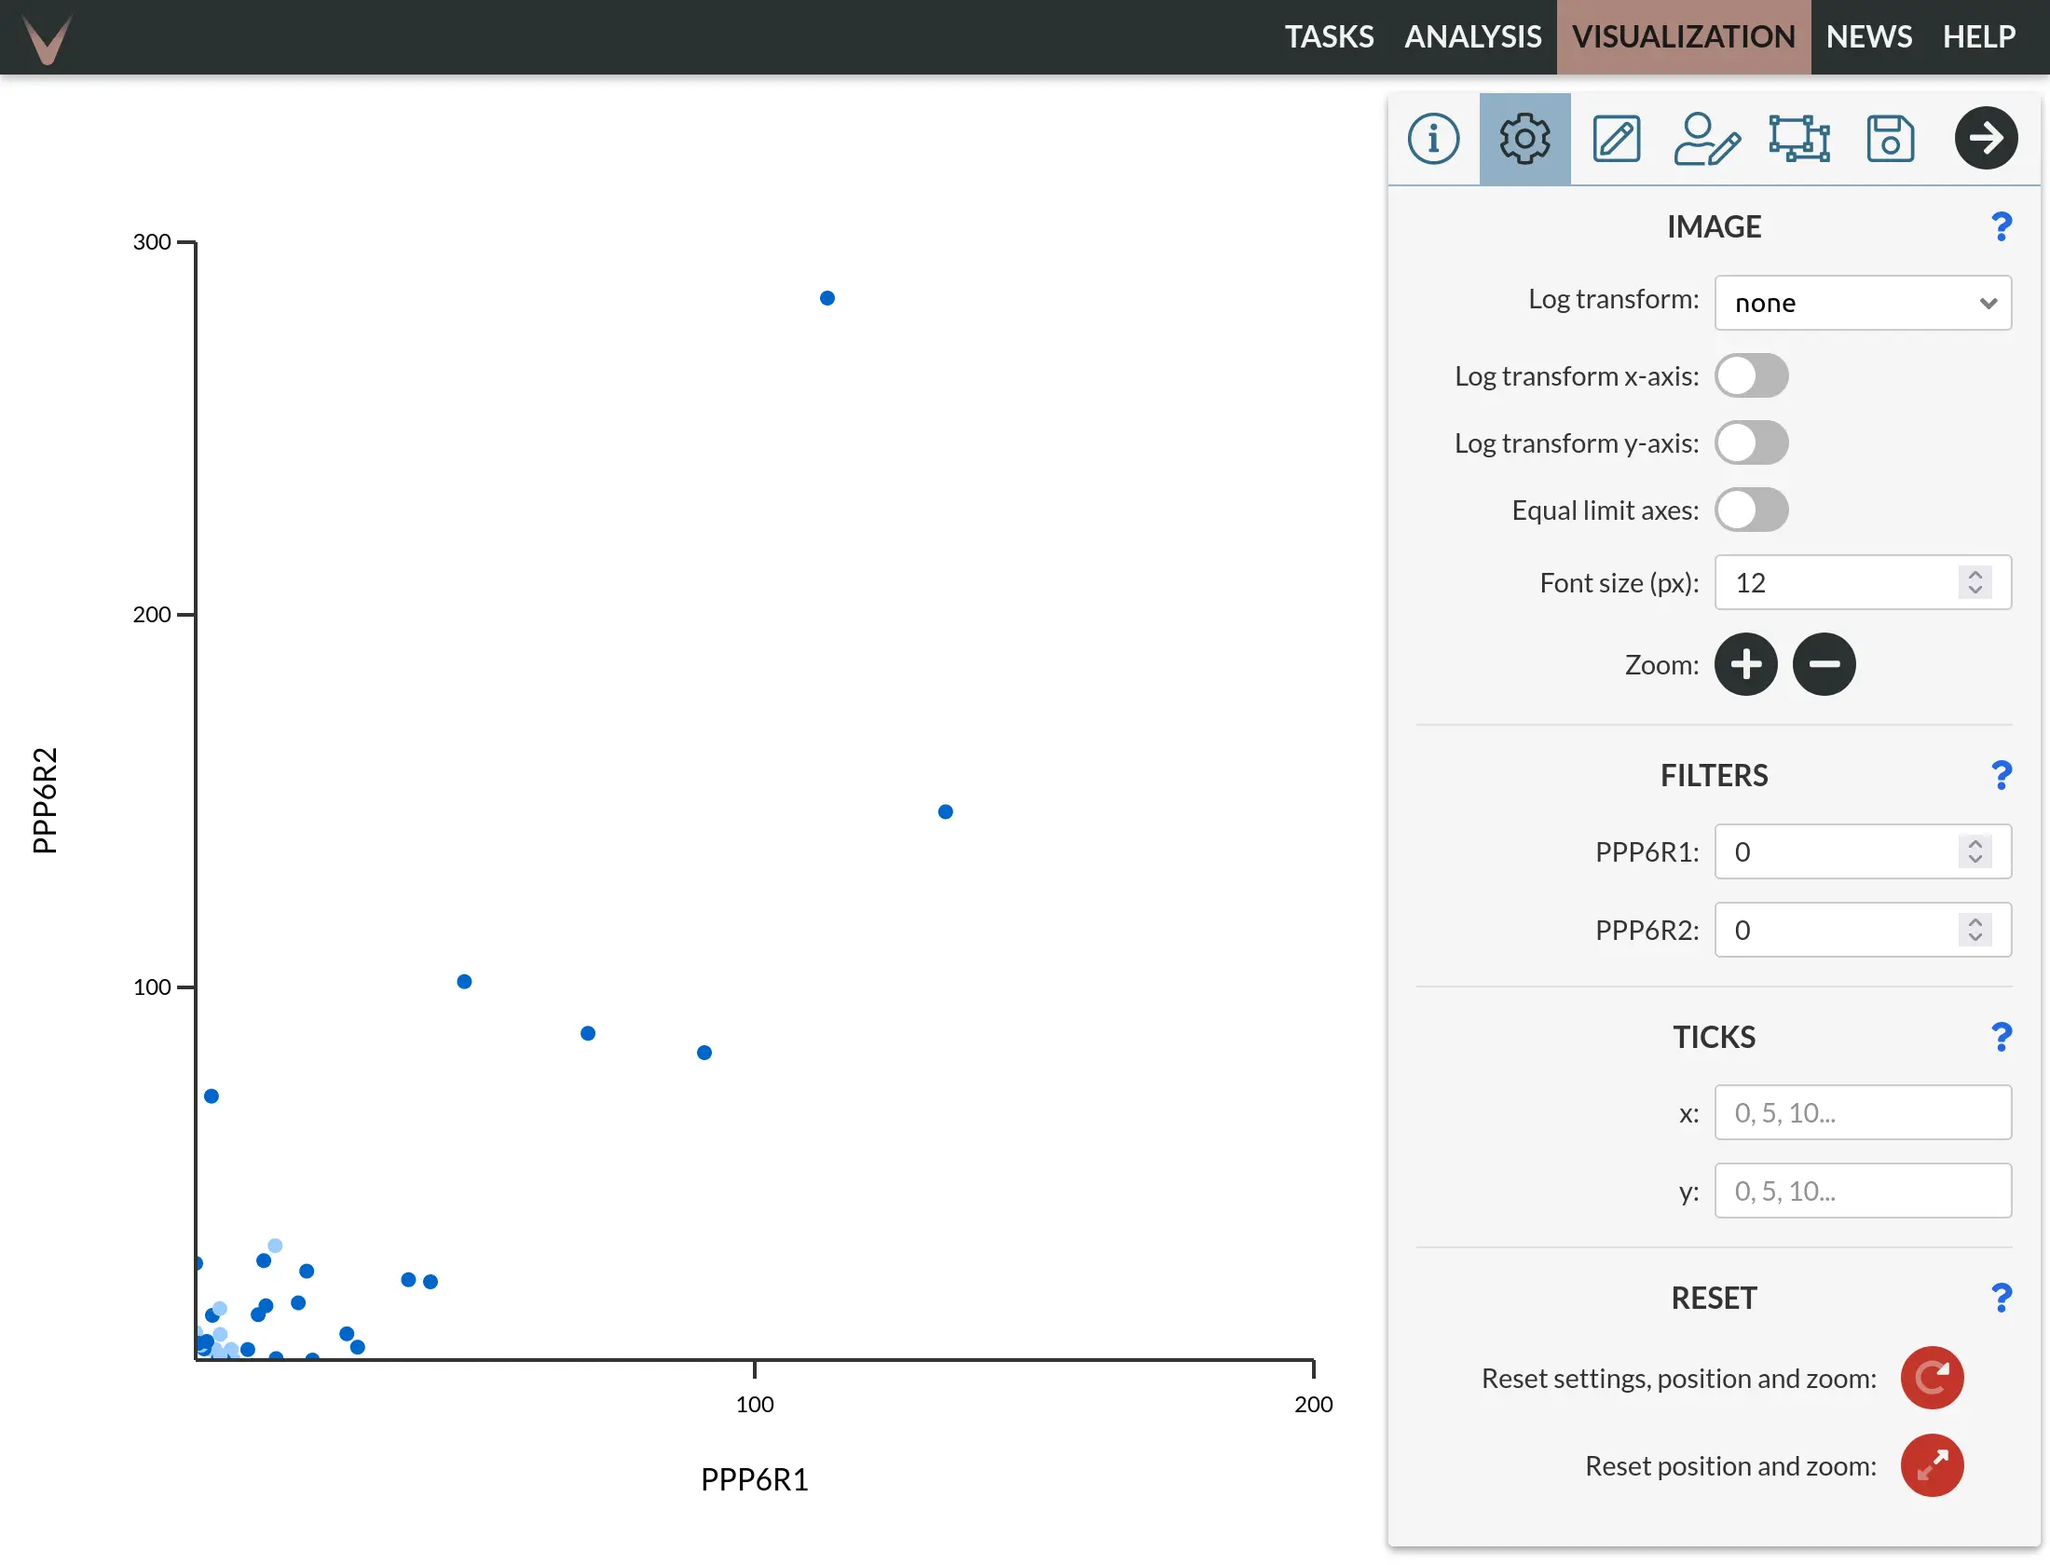
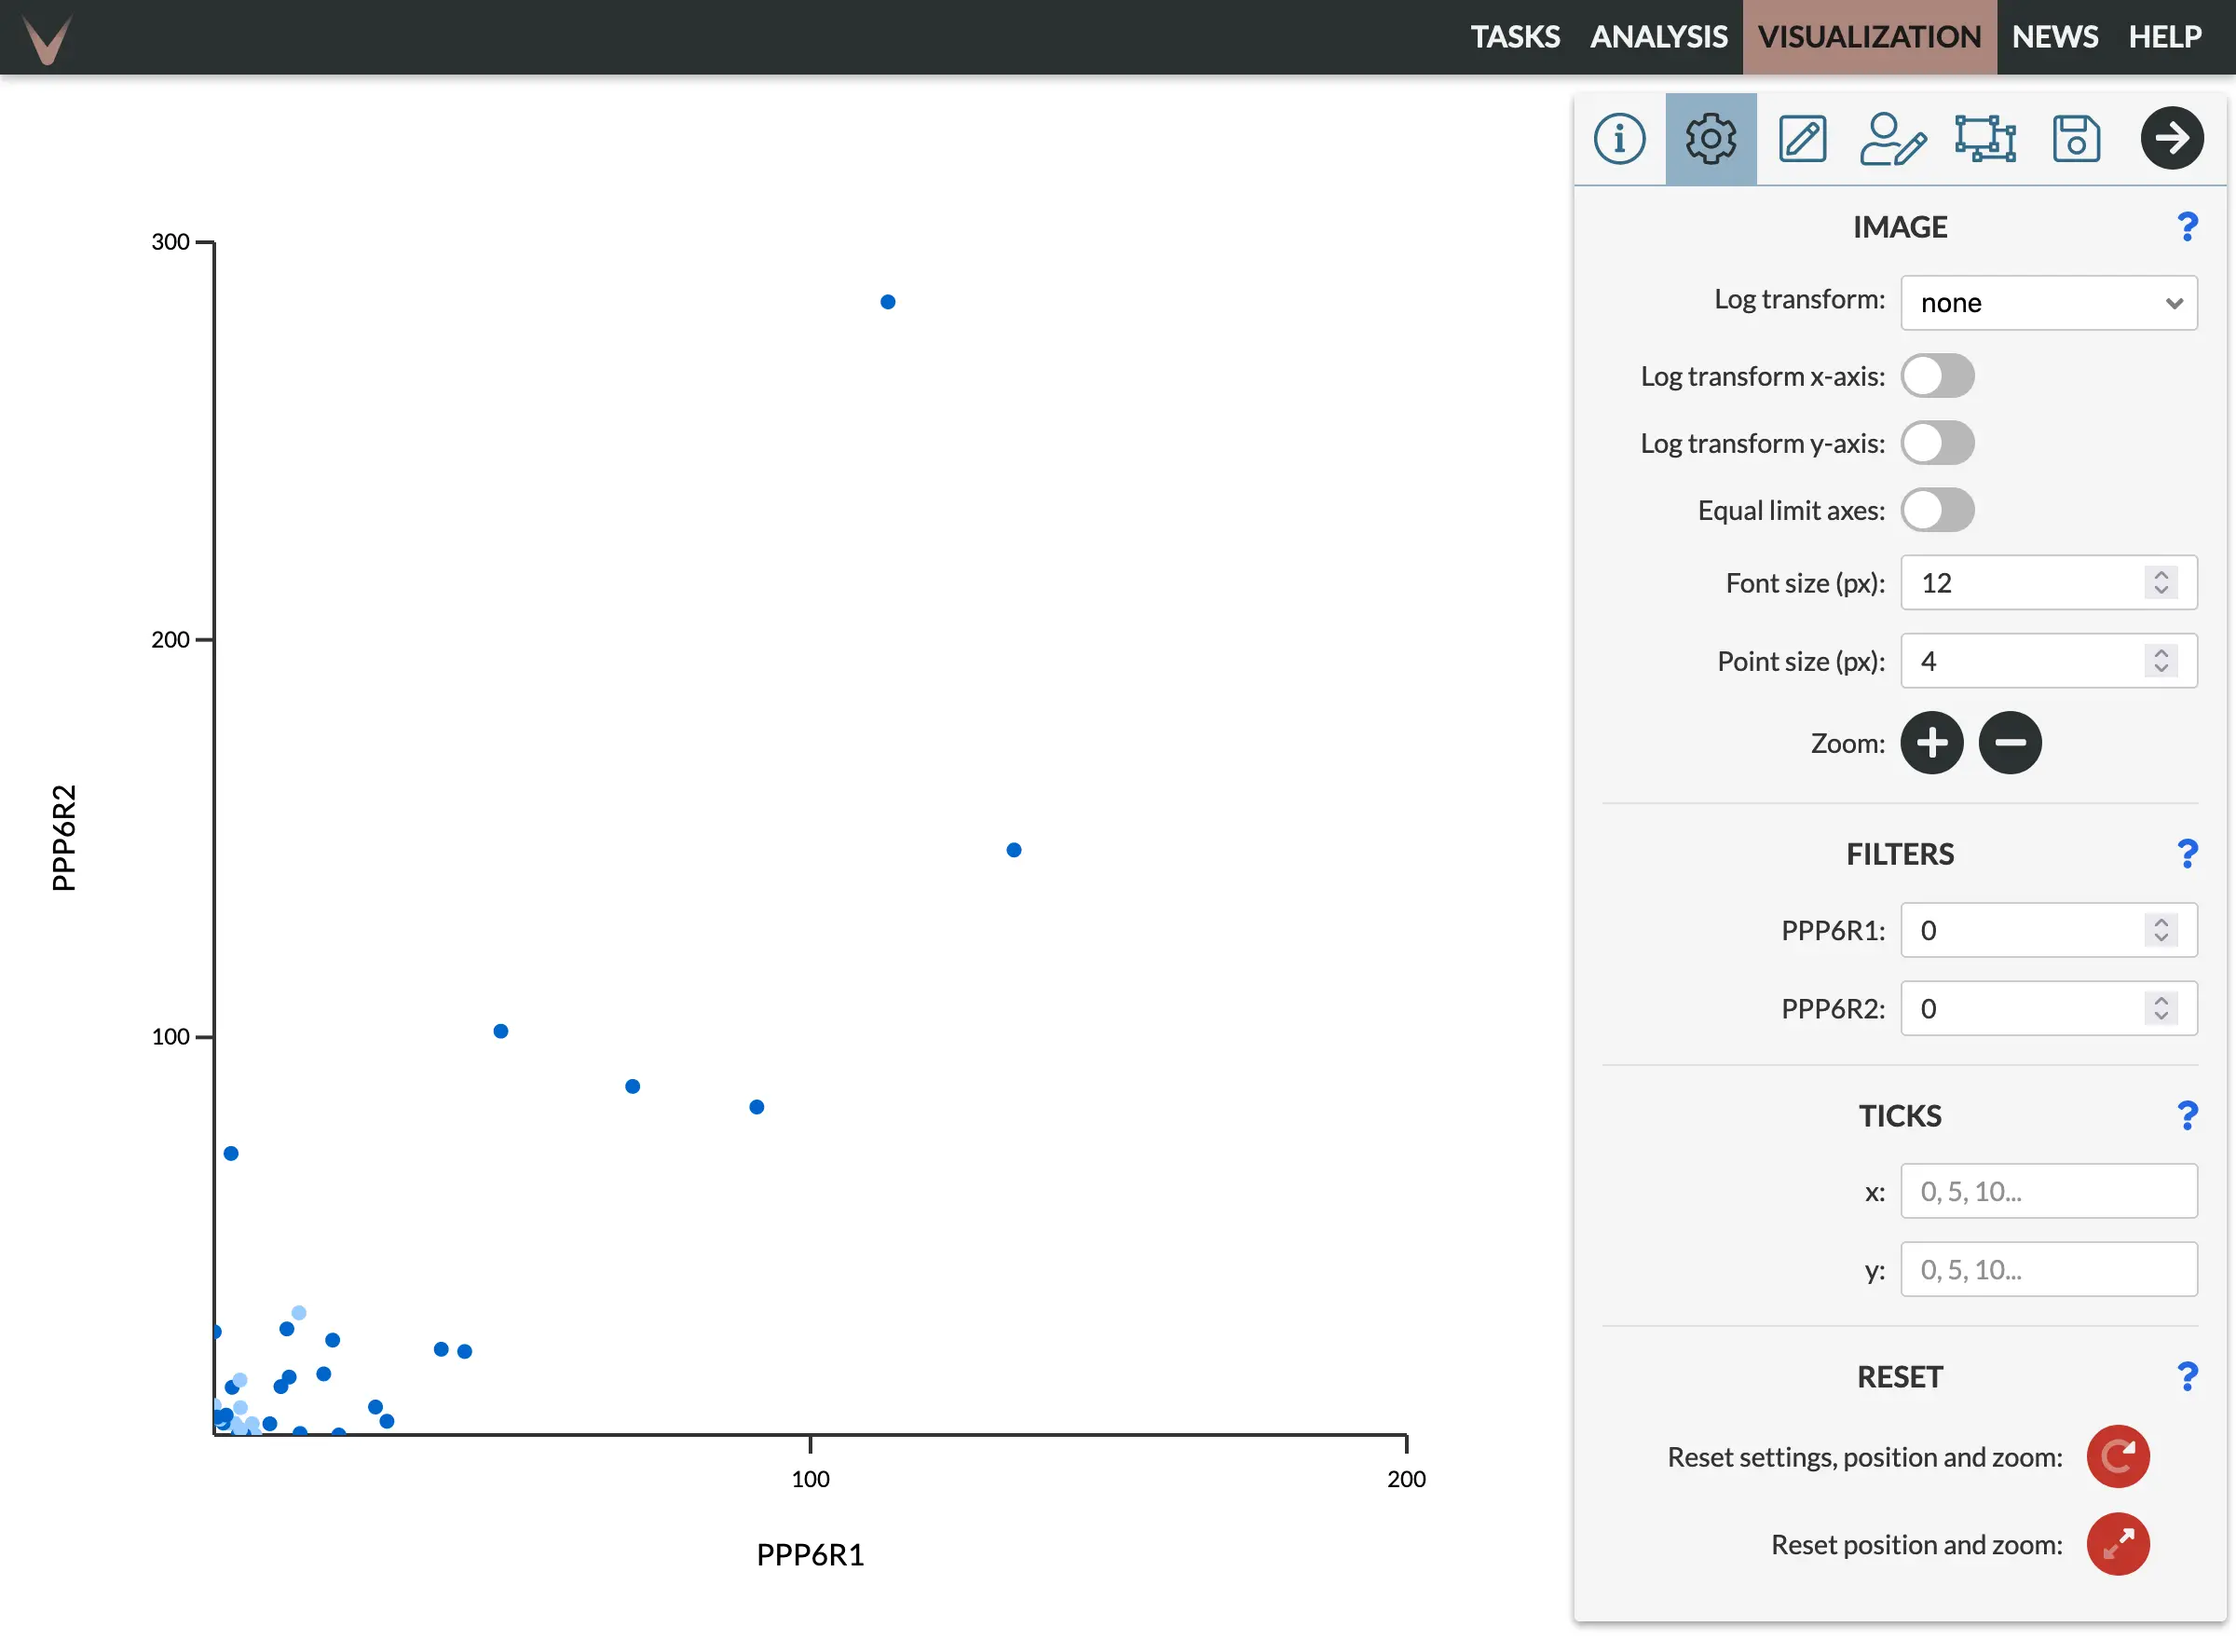
Update help for heatmap and scatter viz

diff --git a/src/help/visualization/heatmap/heatmap.js b/src/help/visualization/heatmap/heatmap.js
@@ -4,10 +4,10 @@ import {
   faArrowsAlt,
   faEdit,
   faEyeSlash,
-  faLink,
   faList,
   faSync,
   faToggleOn,
+  faUnlink,
 } from '@fortawesome/pro-duotone-svg-icons';
 import {
   faPlus,
@@ -109,7 +109,7 @@ const Heatmap = () => (
       such as column and row labels. Generally this will result in only a part of the image being displayed
       on the screen. Different areas can be selected for viewing by clicking on the minimap found in the
       second tab of the side panel. The arrows at the side of the image can be used for moving the image in
-      precise increments. The blue scroll bars adjacent to the image can be used to scroll through the image.
+      precise increments. The scroll bars adjacent to the image can be used to scroll through the image.
       The mousewheel can also be used for scrolling when the mouse is hovering over the image. Holding
       the shift key while scrolling with the wheel will cause the image to scroll in the horizontal direction
       if the image is wider than the width of the browser window.
@@ -163,7 +163,7 @@ const Heatmap = () => (
     <p>
       The
       {' '}
-      <FontAwesomeIcon icon={faLink} />
+      <FontAwesomeIcon icon={faUnlink} />
       {' '}
       icon can be used to detach the minimap from the side panel. This allows the minimap to be open at the same
       time as other tabs on the side panel.
@@ -180,7 +180,7 @@ const Heatmap = () => (
         <span>Detached minimap open alongside the information tab</span>
         . The minimap was detached from the side panel using the
         {' '}
-        <FontAwesomeIcon icon={faLink} />
+        <FontAwesomeIcon icon={faUnlink} />
         {' '}
         icon. The new detached minimap has additional icons for moving
         {' '}
@@ -277,12 +277,18 @@ const Heatmap = () => (
     <p>
       The readouts/rows displayed on the image are determined by the &quot;Minimum abundance&quot; filter, and also by
       the &quot;Primary filter&quot; for data coming from the dot plot analysis tool. By default if a readout passes
-      these filters for one condition, it will appear on the image.
+      these filters for one condition, it will appear on the image. If the &quot;abundance&quot; metric can take
+      negative values, for example a log
+      <sub>2</sub>
+      {' '}
+      fold change or Z-score, the absolute value is used for comparing against the minimum abundance, i.e.
+      an abundance filter of 1 would filter everything between -1 and 1 but positive and negative values
+      outside that range will pass the filter.
     </p>
     <p>
       These filters can be adjusted in the corresponding area of the settings tab. However, the range of values they
       can take is limited by the settings used for analysis, to the extent that readouts passing
-      filters less stringent than those initial settings cannot be added back onto the image.
+      filters less stringent than the initial settings cannot be added back onto the image.
       For example, if a minimum abundance filter of 10 was set when the analysis was performed, readouts that did
       not pass this cutoff were excluded from the image. If you were to change this filter
       to 9 on the side panel, readouts passing this less stringent filter would not be added to the image as they
@@ -291,8 +297,10 @@ const Heatmap = () => (
     </p>
     <p>
       The &quot;Abundance cap&quot; and &quot;Secondary filter&quot; are not used for filtering data.
-      The abundance cap sets the upper limit for the fill colour scale and the secondary filter
-      defines the intermediate intensity edge on dot plots. When adjusted, the changes will
+      The abundance cap sets the limits for the fill colour scale. For an &quot;abundance&quot; metric taking only
+      positive values, the cap defines the upper limit, while a metric that can take negative values
+      will use the negative value of the cap for the lower limit. The secondary filter
+      defines the intermediate intensity edge on dot plots. When these filters are adjusted, the changes will
       be reflected in the colouring on the image and on the legend.
     </p>
     <p>

diff --git a/src/help/visualization/scatter/scatter.js b/src/help/visualization/scatter/scatter.js
@@ -125,14 +125,14 @@ const Scatter = () => (
     <figure className="help__image-screenshot">
       <Image
         alt="Interactive scatter plot settings"
-        height={560}
+        height={587}
         images={images}
         name="scatter-settings"
-        width={733}
+        width={800}
       />
       <figcaption>
         <span>Customizable settings</span>
-        . Customize the axes, font size, tick marks and perform filtering.
+        . Customize the axes, font size, point size, tick marks and perform filtering.
       </figcaption>
     </figure>
     <h4 id="settings-image">Image</h4>
@@ -142,7 +142,8 @@ const Scatter = () => (
       upper and lower limits using the &quot;Equal limit axes&quot; toggle.
     </p>
     <p>
-      The font size of axes ticks and labels can be set with the &quot;Font size&quot; input. The image can be zoomed
+      The font size of axes ticks and labels can be set with the &quot;Font size&quot; input. The default radius
+      for points can be set from the &quot;Point size&quot; input. The image can be zoomed
       in or out by clicking the
       {' '}
       <FontAwesomeIcon icon={faPlus} />
@@ -280,7 +281,7 @@ const Scatter = () => (
       <figcaption>
         <span>Making selections</span>
         . Specific points can be selected from the selection menu on the side panel,
-        clicking on a point, right-clicking and pasting a list into the selection menu, and by
+        by clicking on a point, by right-clicking and pasting a list into the selection menu, and by
         holding the SHIFT key and dragging the cursor around the desired points.
       </figcaption>
     </figure>
@@ -342,7 +343,7 @@ const Scatter = () => (
     <h5>Gene Ontology (GO) enrichment</h5>
     <p>
       GO enrichment analysis of selections can be done provided the labels represent gene names.
-      This analysis is done using the API provided by
+      This analysis is performed using the API provided by
       {' '}
       <Link to="https://biit.cs.ut.ee/gprofiler/gost">
         g:Profiler
@@ -352,7 +353,7 @@ const Scatter = () => (
     </p>
     <p>
       Analysis results will open automatically in a separate tabular view. The image can be returned to from the
-      menu in the upper left.
+      menu button in the upper left.
     </p>
     <figure className="help__image-screenshot">
       <Image
